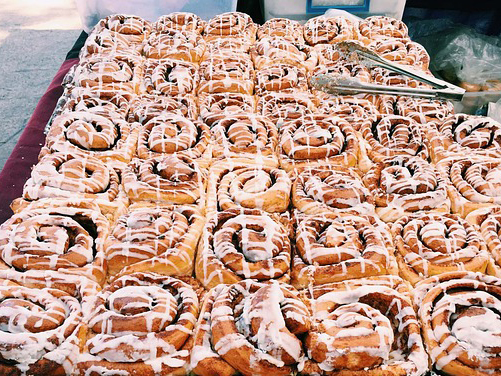
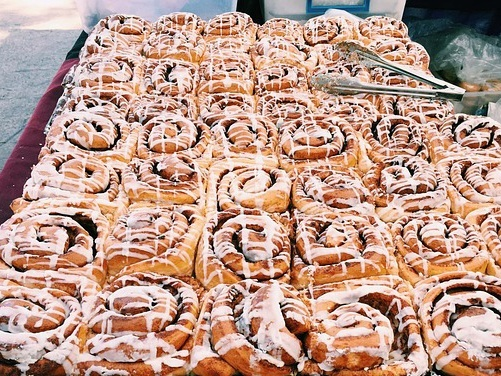
resizing images

diff --git a/index.html b/index.html
@@ -20,6 +20,7 @@
                 }
         }
         </style>
+        <!-- BOOTSTRAP ONLY FOR HAMBURGER MENU BAR -->
         <link rel="stylesheet" href="https://maxcdn.bootstrapcdn.com/bootstrap/3.3.6/css/bootstrap.min.css" integrity="sha384-1q8mTJOASx8j1Au+a5WDVnPi2lkFfwwEAa8hDDdjZlpLegxhjVME1fgjWPGmkzs7" crossorigin="anonymous">
         <script src="https://ajax.googleapis.com/ajax/libs/jquery/1.11.3/jquery.min.js"></script>
         <script src="js/main_js.js"></script>

diff --git a/main_style.css b/main_style.css
@@ -134,7 +134,7 @@ a:visited
     
 a:hover
 {
-    color: #7ab181;
+    color: #7ab181 !important;
     text-decoration: none;
     text-shadow: 1px 1px 4px #393735;
 }
